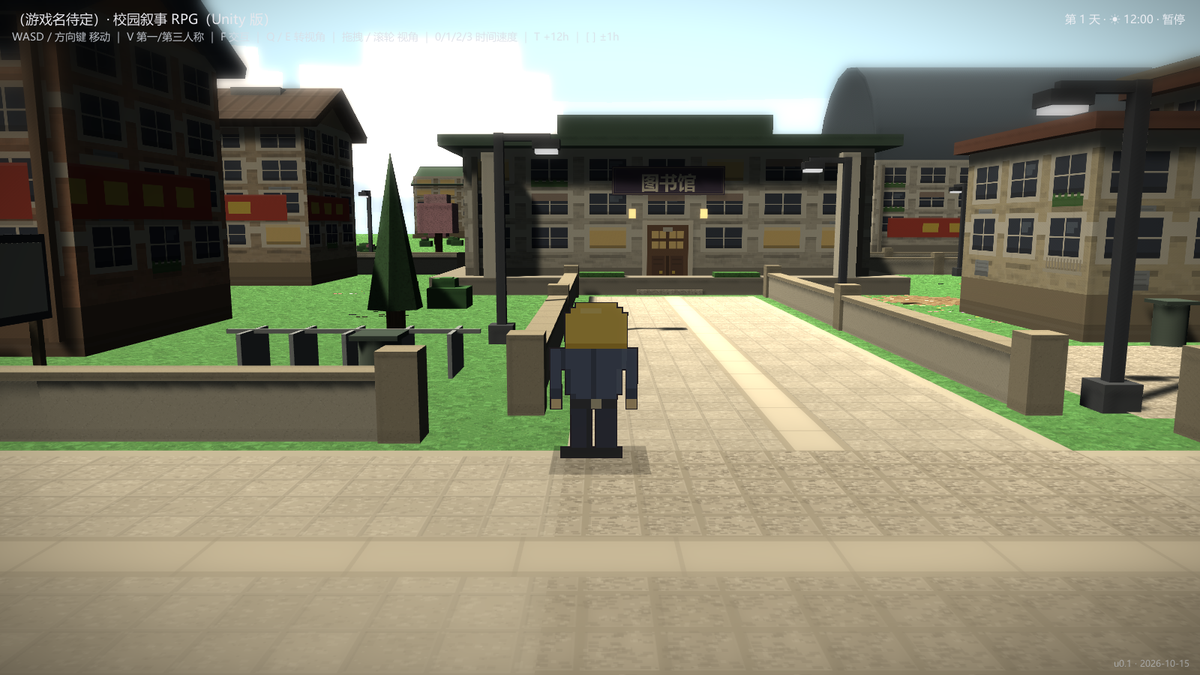
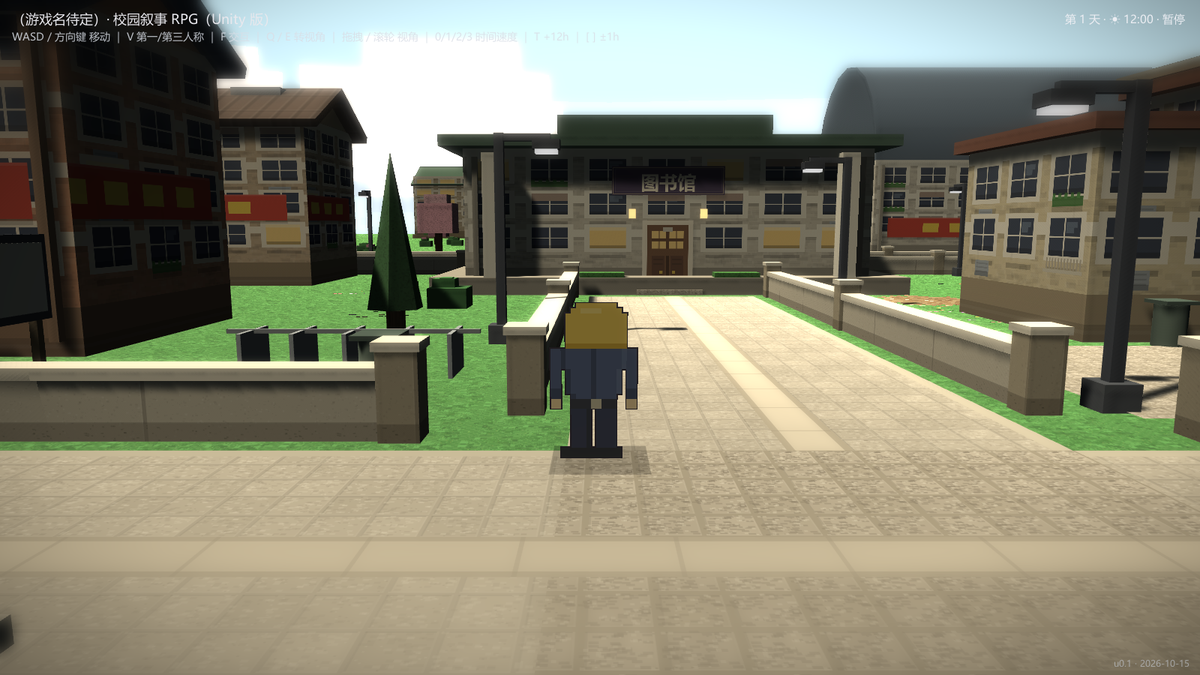
fix(场景): 矮墙改成「分米级特征」——砌筑缝/勒脚带/浅色压顶/立柱压顶石
作者反馈：矮墙看不出变化。查明不是像素太低（160px/米与地面同基准），而是第一版的细节
（骨料颗粒、气孔，1~2cm）在 13m 的游戏机位下不到一个屏幕像素。改为宏观特征：

- concrete 贴图改为 384px 覆盖 2.4m（仍是 160px/米）：每 2.4m 一道砌筑缝（6px≈3.75cm，带亮边倒角）
  + 墙脚 0.18m 深色勒脚带（含苔点）+ 保留骨料/气孔/雨痕/裂纹
- 压顶改浅色 #e9e3d6、加高到 12cm、外挑 6cm（0.20 光滑度）→ 与墙身两段色，远处可见
- 每根立柱顶部加浅色压顶石方帽（0.46×0.09×0.46）→ 读出"墙柱"节奏
- 墙体/立柱继续用世界尺度 UV（2.4m 一铺），四面同密度

实机图 docs/img/wall-real.png、wall-road.png。详见 docs/14。

diff --git a/Game/Assets/Scripts/TextureLibrary.cs b/Game/Assets/Scripts/TextureLibrary.cs
@@ -434,27 +434,38 @@ public static class TextureLibrary
         return p;
     }
 
-    // 混凝土/水刷石（矮墙、压顶、立柱用）：骨料颗粒 + 气孔 + 细裂纹 + 墙脚潮痕/苔点
-    // 世界尺度 0.8m = 160px/米
+    // 混凝土矮墙（矮墙/立柱用）：384px 覆盖 2.4m = 160px/米 —— 关键特征做到「分米级」，
+    // 远处也读得出来：砌筑缝每 2.4m、墙脚深色勒脚带、细骨料颗粒、气孔、污渍/裂纹。
     static Px Concrete()
     {
-        var p = new Px(128, 128);
-        p.FillRect(0, 0, 128, 128, C("#c8c2b4"));
-        for (int i = 0; i < 900; i++)
-            p.FillRect(R.Int(126), R.Int(126), 1 + R.Int(2), 1 + R.Int(2),
-                C(R.Int(3) == 0 ? "rgba(255,255,255,0.16)" : (R.Int(2) == 0 ? "rgba(90,84,74,0.13)" : "rgba(150,144,132,0.15)")));
-        for (int i = 0; i < 120; i++)
-            p.FillRect(R.Int(126), R.Int(126), 1, 1, C("rgba(70,64,56,0.22)"));
-        for (int i = 0; i < 6; i++)
+        var p = new Px(384, 384);   // 2.4m 见方（160px/米）
+        p.FillRect(0, 0, 384, 384, C("#c6bfb0"));
+        // 骨料颗粒（1~5px ≈ 0.6~3cm）
+        for (int i = 0; i < 2400; i++)
+            p.FillRect(R.Int(380), R.Int(380), 1 + R.Int(4), 1 + R.Int(3),
+                C(R.Int(3) == 0 ? "rgba(255,255,255,0.14)" : (R.Int(2) == 0 ? "rgba(90,84,74,0.12)" : "rgba(150,144,132,0.14)")));
+        // 气孔
+        for (int i = 0; i < 320; i++)
+            p.FillRect(R.Int(380), R.Int(380), 1, 1, C("rgba(70,64,56,0.20)"));
+        // 砌筑缝（每 2.4m 一道，宽 6px ≈ 3.75cm；带一条亮边模拟倒角）
+        p.FillRect(0, 0, 6, 384, C("rgba(70,64,56,0.30)"));
+        p.FillRect(6, 0, 2, 384, C("rgba(255,255,255,0.12)"));
+        // 墙脚勒脚带（贴图底部 28px ≈ 0.18m：颜色更深 + 顶边一条分界线）
+        p.FillRect(0, 384 - 28, 384, 28, new Color(0.46f, 0.43f, 0.38f, 0.55f));
+        p.FillRect(0, 384 - 30, 384, 2, C("rgba(60,56,48,0.30)"));
+        for (int i = 0; i < 60; i++)
+            p.FillRect(R.Int(378), 384 - 26 + R.Int(24), 2 + R.Int(3), 2, C("rgba(52,54,36,0.22)"));   // 苔点
+        // 雨痕/污渍（竖向拖尾）+ 细裂纹
+        for (int i = 0; i < 10; i++)
         {
-            int x = R.Int(110), y = R.Int(90);
-            for (int k = 0; k < 10; k++) p.FillRect(x + k * 2 + R.Int(2), y + R.Int(3) + k * 2, 2, 1, C("rgba(80,74,66,0.16)"));
+            int x = R.Int(370), w = 6 + R.Int(18), h = 40 + R.Int(120);
+            p.FillRect(x, R.Int(60), w, h, C("rgba(70,64,54,0.07)"));
         }
-        // 墙脚潮痕（贴图底部 = 墙体底部）+ 苔点
-        for (int i = 0; i < 16; i++)
-            p.FillRect(0, 108 + i, 128, 1, new Color(0.20f, 0.18f, 0.15f, 0.045f + i * 0.004f));
-        for (int i = 0; i < 28; i++)
-            p.FillRect(R.Int(124), 112 + R.Int(14), 2 + R.Int(2), 1, C("rgba(60,62,40,0.16)"));
+        for (int i = 0; i < 5; i++)
+        {
+            int x = 20 + R.Int(330), y = 20 + R.Int(320);
+            for (int k = 0; k < 12; k++) p.FillRect(x + k * 2 + R.Int(2), y + R.Int(3) + k * 2, 2, 1, C("rgba(80,74,66,0.16)"));
+        }
         return p;
     }
 

diff --git a/Game/Assets/Scripts/WorldBuilder.cs b/Game/Assets/Scripts/WorldBuilder.cs
@@ -439,17 +439,21 @@ public class WorldBuilder : MonoBehaviour
             var run = NewGo("wall", g).transform;
             var wallSize = f.axis == "z" ? new Vector3(0.26f, 0.6f, len) : new Vector3(len, 0.6f, 0.26f);
             var wallPos = f.axis == "z" ? new Vector3(f.at, 0.3f, mid) : new Vector3(mid, 0.3f, f.at);
-            // 写实化：混凝土贴图 + 世界尺度 UV（0.8m 一铺；四面同密度，墙脚潮痕/气孔可见）
-            MeshObj(run, MeshFactory.BoxUV(wallSize, 0.8f), wallPos, LitTex("concrete"));
-            var capSize = f.axis == "z" ? new Vector3(0.36f, 0.08f, len) : new Vector3(len, 0.08f, 0.36f);
-            var capPos = f.axis == "z" ? new Vector3(f.at, 0.64f, mid) : new Vector3(mid, 0.64f, f.at);
-            MeshObj(run, MeshFactory.BoxUV(capSize, 0.8f), capPos, LitTinted("concrete", "#cfcabf"));
+            // 写实化：混凝土贴图 + 世界尺度 UV（2.4m 一铺 = 每 2.4m 一道砌筑缝；墙脚勒脚带）
+            MeshObj(run, MeshFactory.BoxUV(wallSize, 2.4f), wallPos, LitTex("concrete"));
+            // 压顶：浅色压顶石（高 12cm、外挑 6cm）——和墙身形成明显两段色，远处也读得出「墙」
+            var capSize = f.axis == "z" ? new Vector3(0.38f, 0.12f, len) : new Vector3(len, 0.12f, 0.38f);
+            var capPos = f.axis == "z" ? new Vector3(f.at, 0.66f, mid) : new Vector3(mid, 0.66f, f.at);
+            MeshObj(run, MeshFactory.BoxUV(capSize, 0.8f), capPos, ColMatGloss("#e9e3d6", 0.20f));
             int count = Mathf.Max(1, Mathf.FloorToInt(len / 5.6f));
             for (int i = 0; i <= count; i++)
             {
                 float t = f.from + len * i / count;
                 var pos = f.axis == "z" ? new Vector3(f.at, 0.44f, t) : new Vector3(t, 0.44f, f.at);
-                MeshObj(run, MeshFactory.BoxUV(new Vector3(0.4f, 0.88f, 0.4f), 0.8f), pos, LitTinted("concrete", "#d0cabd"));
+                MeshObj(run, MeshFactory.BoxUV(new Vector3(0.4f, 0.88f, 0.4f), 2.4f), pos, LitTinted("concrete", "#d4cec1"));
+                // 立柱压顶石（浅色小方帽 → 远处也能看出"墙柱"节奏）
+                MeshObj(run, MeshFactory.BoxUV(new Vector3(0.46f, 0.09f, 0.46f), 0.8f),
+                    pos + new Vector3(0f, 0.485f, 0f), ColMatGloss("#e9e3d6", 0.20f));
             }
         }
     }

diff --git a/Game/Assets/Scripts/TexScale.cs b/Game/Assets/Scripts/TexScale.cs
@@ -40,6 +40,6 @@ public static class TexScale
         ["roadband_h"] = new Vector2(1f, 0.6f),
         ["leaves"] = new Vector2(LeafMeters, LeafMeters),   // 树冠（世界尺度 UV 箱体/锥体）
         ["bark"] = new Vector2(BarkMeters, BarkMeters),     // 树干
-        ["concrete"] = new Vector2(0.8f, 0.8f),             // 矮墙/压顶/立柱：128px → 160px/米
+        ["concrete"] = new Vector2(2.4f, 2.4f),             // 矮墙/立柱：384px → 160px/米（含每 2.4m 砌筑缝）
     };
 }

diff --git a/docs/14-建筑配件与树距.md b/docs/14-建筑配件与树距.md
@@ -6,10 +6,15 @@
 
 之前是三块纯色板拼起来的"纸片墙"：墙体 `#cfc9ba`、压顶 `#b8b0a2`、立柱 `#c9c3b6`，没有任何贴图。
 
-现在：新增 **`concrete`** 程序化贴图（128px / 覆盖 0.8m = **160px/米**）——
-骨料颗粒（深浅三色）、气孔麻点、低频细裂纹、**墙脚潮痕**与苔点；
-墙体 / 压顶 / 立柱全部改用 `MeshFactory.BoxUV(size, 0.8f)`，**四面同密度**（和立面的做法一致），
-压顶与立柱只做轻微提亮，保留"石材"层次。
+第一版加了 `concrete` 贴图（骨料颗粒/气孔，160px/米）——**实机看不出来**：这些细节只有 1~2cm 大，
+13m 外的游戏机位占不到一个屏幕像素。**问题不在分辨率，在特征尺度**。
+
+第二版把特征做到**分米级**，远处也读得出来：
+- **砌筑缝每 2.4m**（贴图 384px 覆盖 2.4m = 160px/米，缝宽 6px ≈ 3.75cm，带亮边倒角）
+- **墙脚勒脚带**：底部 0.18m 加深（含苔点），墙身/勒脚两段色
+- **压顶改浅色**、加高到 12cm、外挑 6cm（`#e9e3d6`，0.20 光滑度）→ 和墙身形成明显的两段色
+- **立柱压顶石**：每根立柱顶部加一块浅色方帽（0.46×0.09×0.46）→ 远处能看出"墙柱"的节奏
+- 骨料颗粒/气孔/雨痕/裂纹仍保留（近看有细节）
 
 ## 二、建筑配件（和楼一起的那些东西）
 
